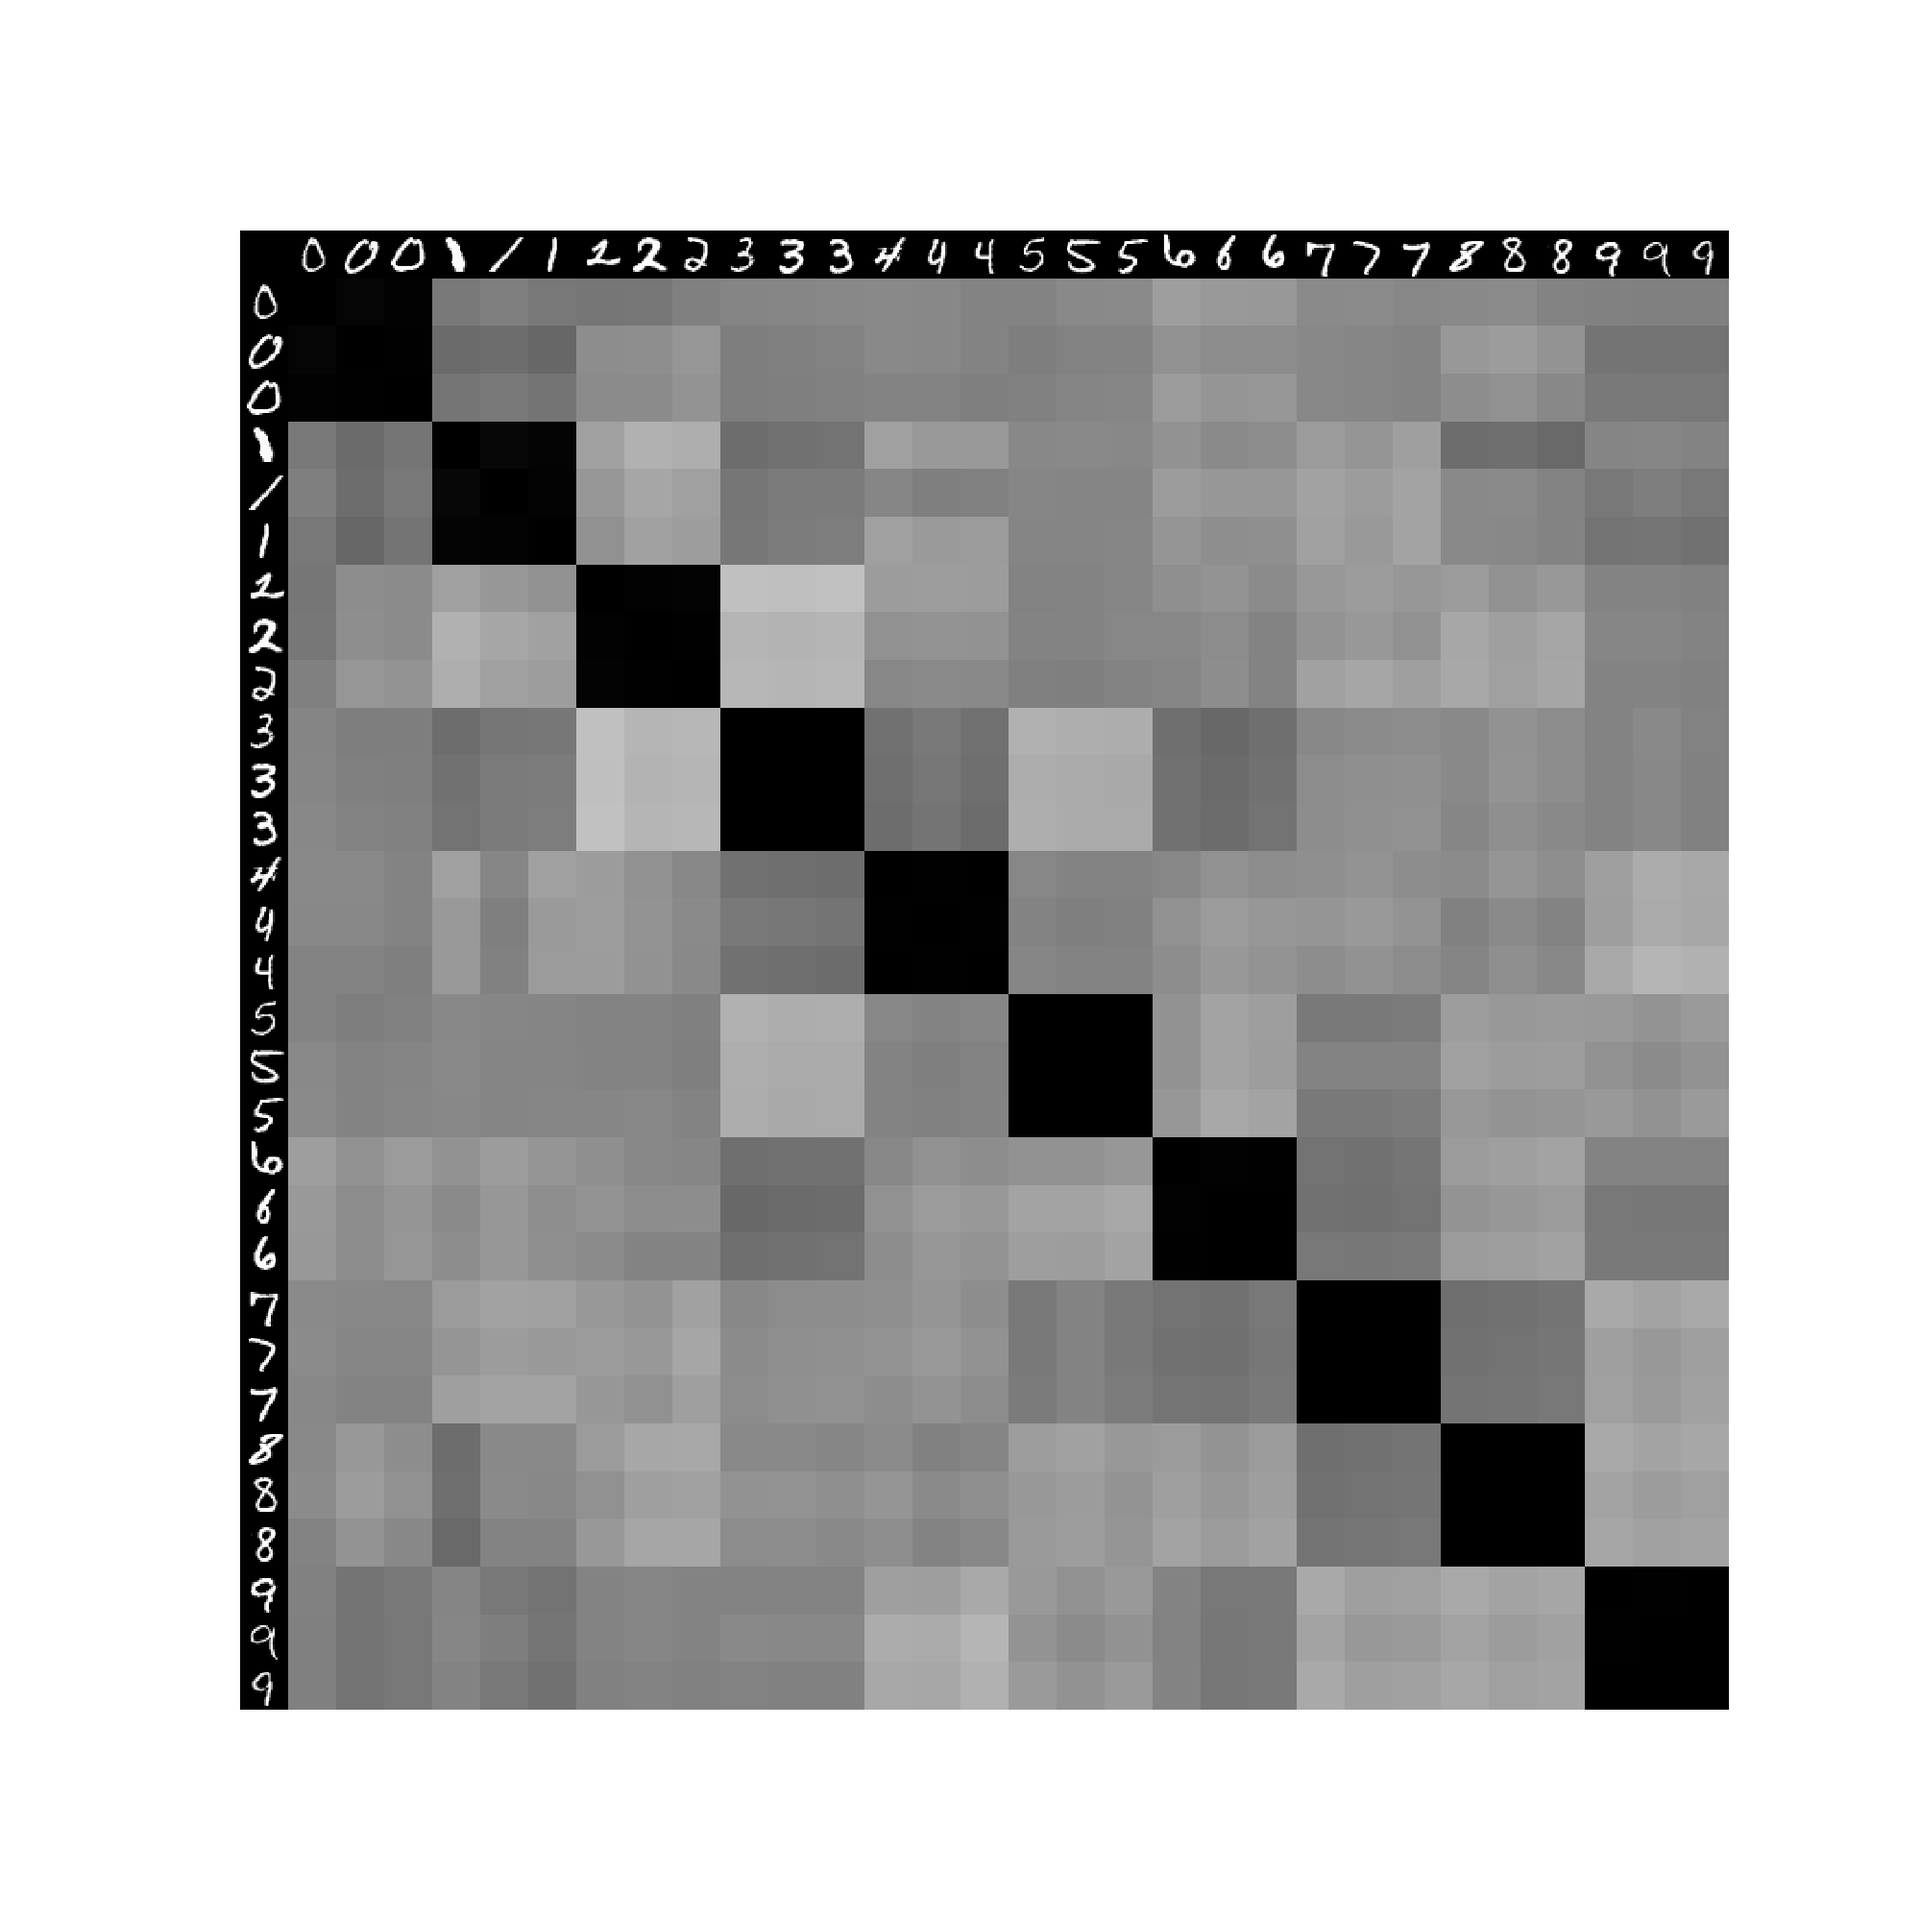
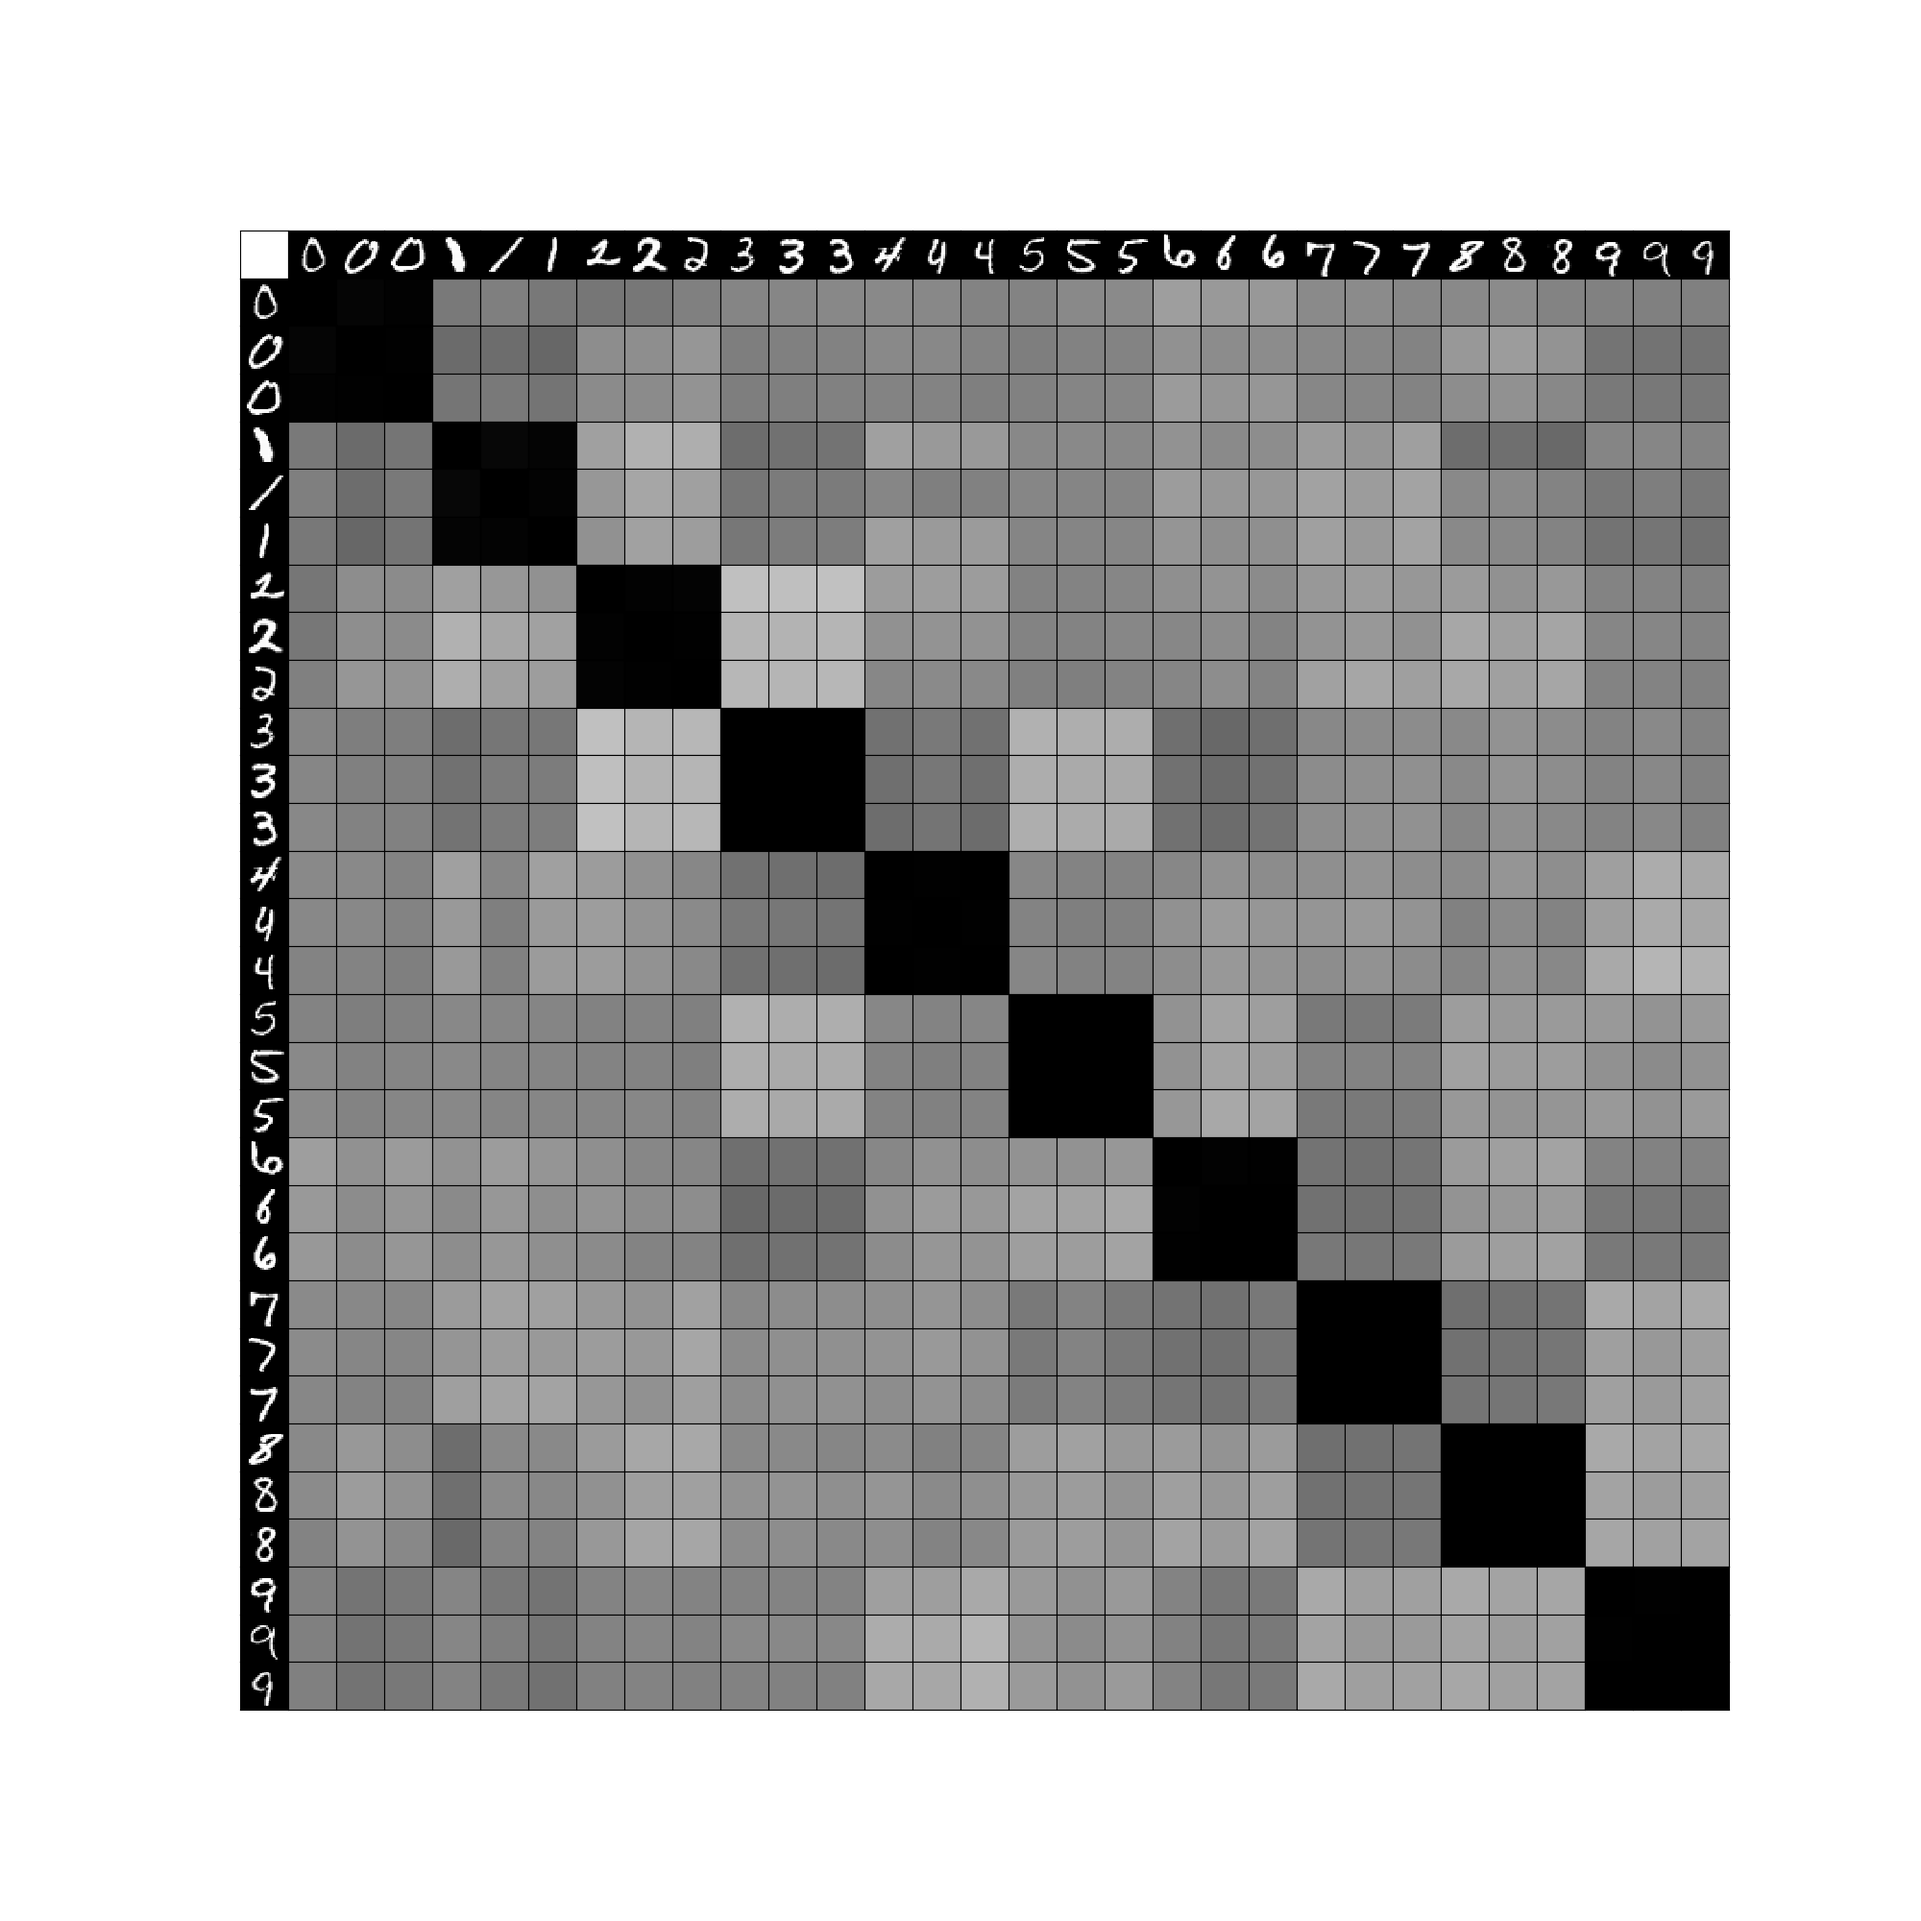
.

Changed region(s): [[0.124, 0.124, 0.155, 0.155]]

diff --git a/visualize_distances.py b/visualize_distances.py
@@ -51,23 +51,21 @@ def main():
     plt.gray()
 
     ax = axes[0, 0]
-    ax.axis('off')
-    ax.imshow(np.array([[0]]))
+    ax.set_xticks([]), ax.set_yticks([])
 
-    # Title row
     for i, index in zip(range(30), indices):
         batch = batches[index]
         ax = axes[i + 1, 0]
-        ax.axis('off')
+        ax.set_xticks([]), ax.set_yticks([])
         ax.imshow(batch.reshape((28, 28)), vmin=0.0, vmax=1.0)
         ax = axes[0, i + 1]
-        ax.axis('off')
+        ax.set_xticks([]), ax.set_yticks([])
         ax.imshow(batch.reshape((28, 28)), vmin=0.0, vmax=1.0)
 
     for i, j in itertools.product(range(30), range(30)):
         value = np.array([[pairwise_distances[i, j]]])
         ax = axes[i + 1, j + 1]
-        ax.axis('off')
+        ax.set_xticks([]), ax.set_yticks([])
         ax.imshow(value, vmin=0.0, vmax=1.0)
     plt.savefig(f'{head}-distances.png')
     plt.close()
